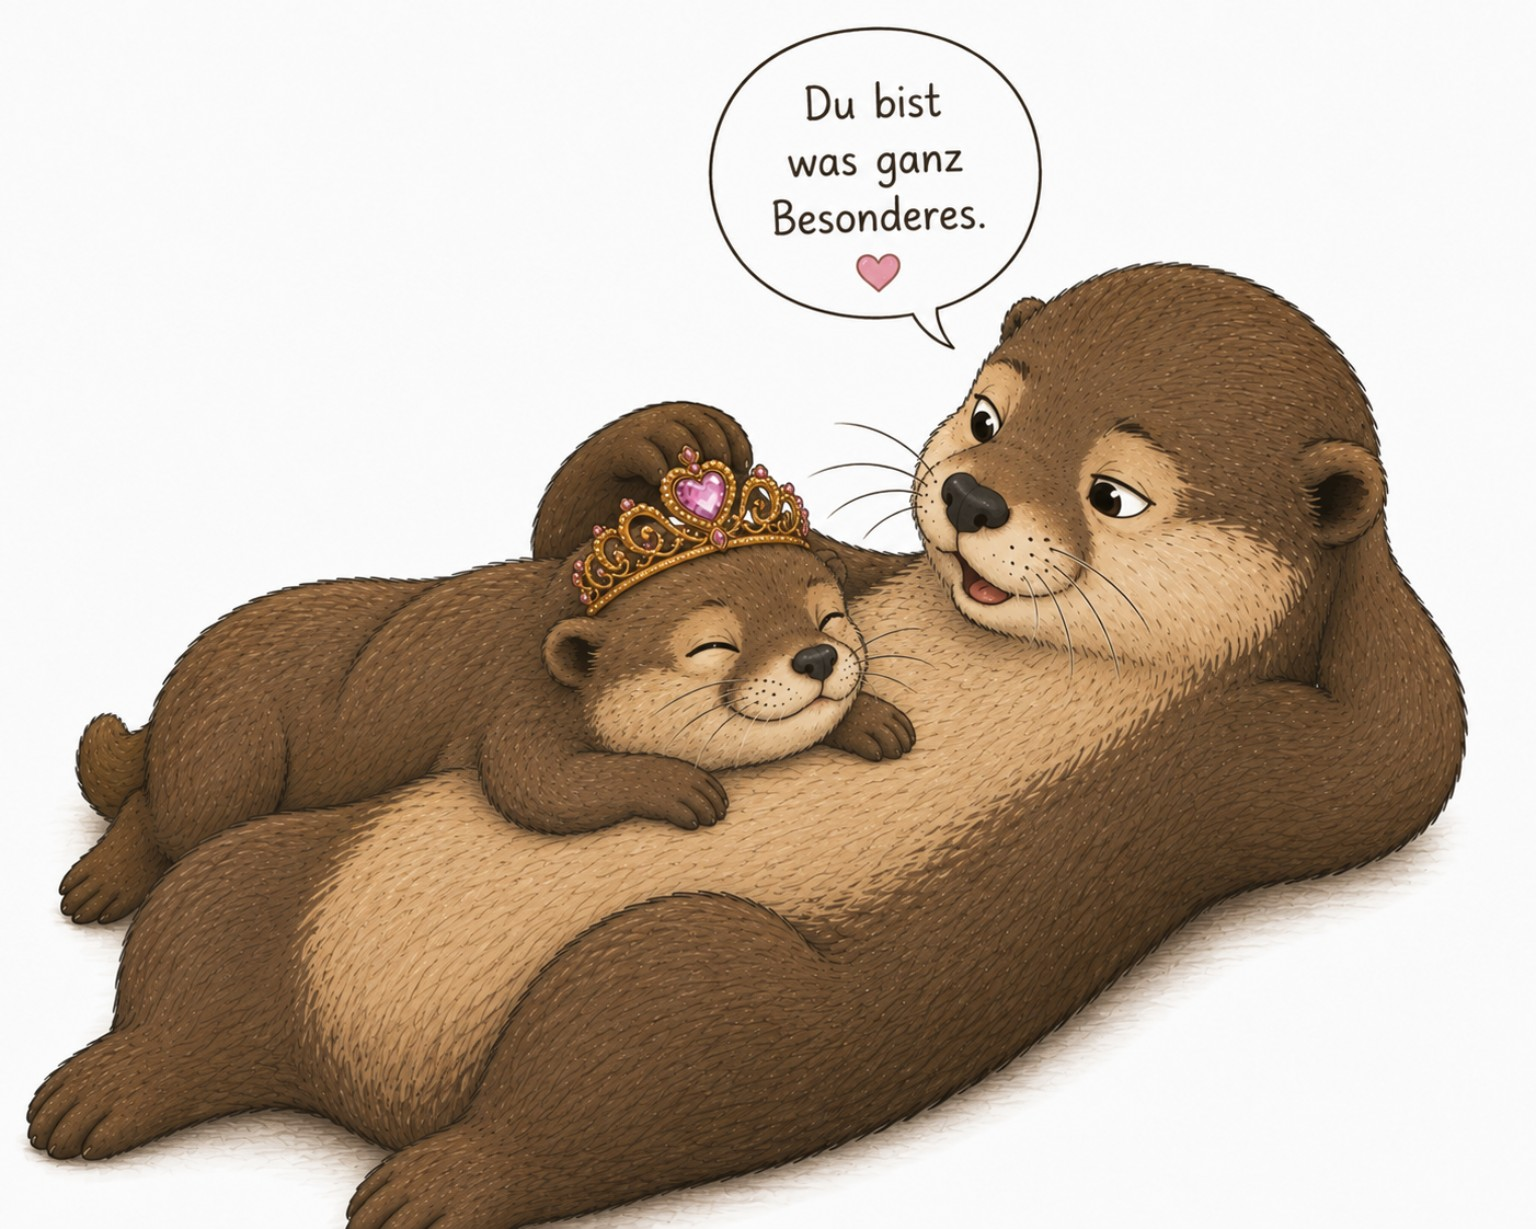
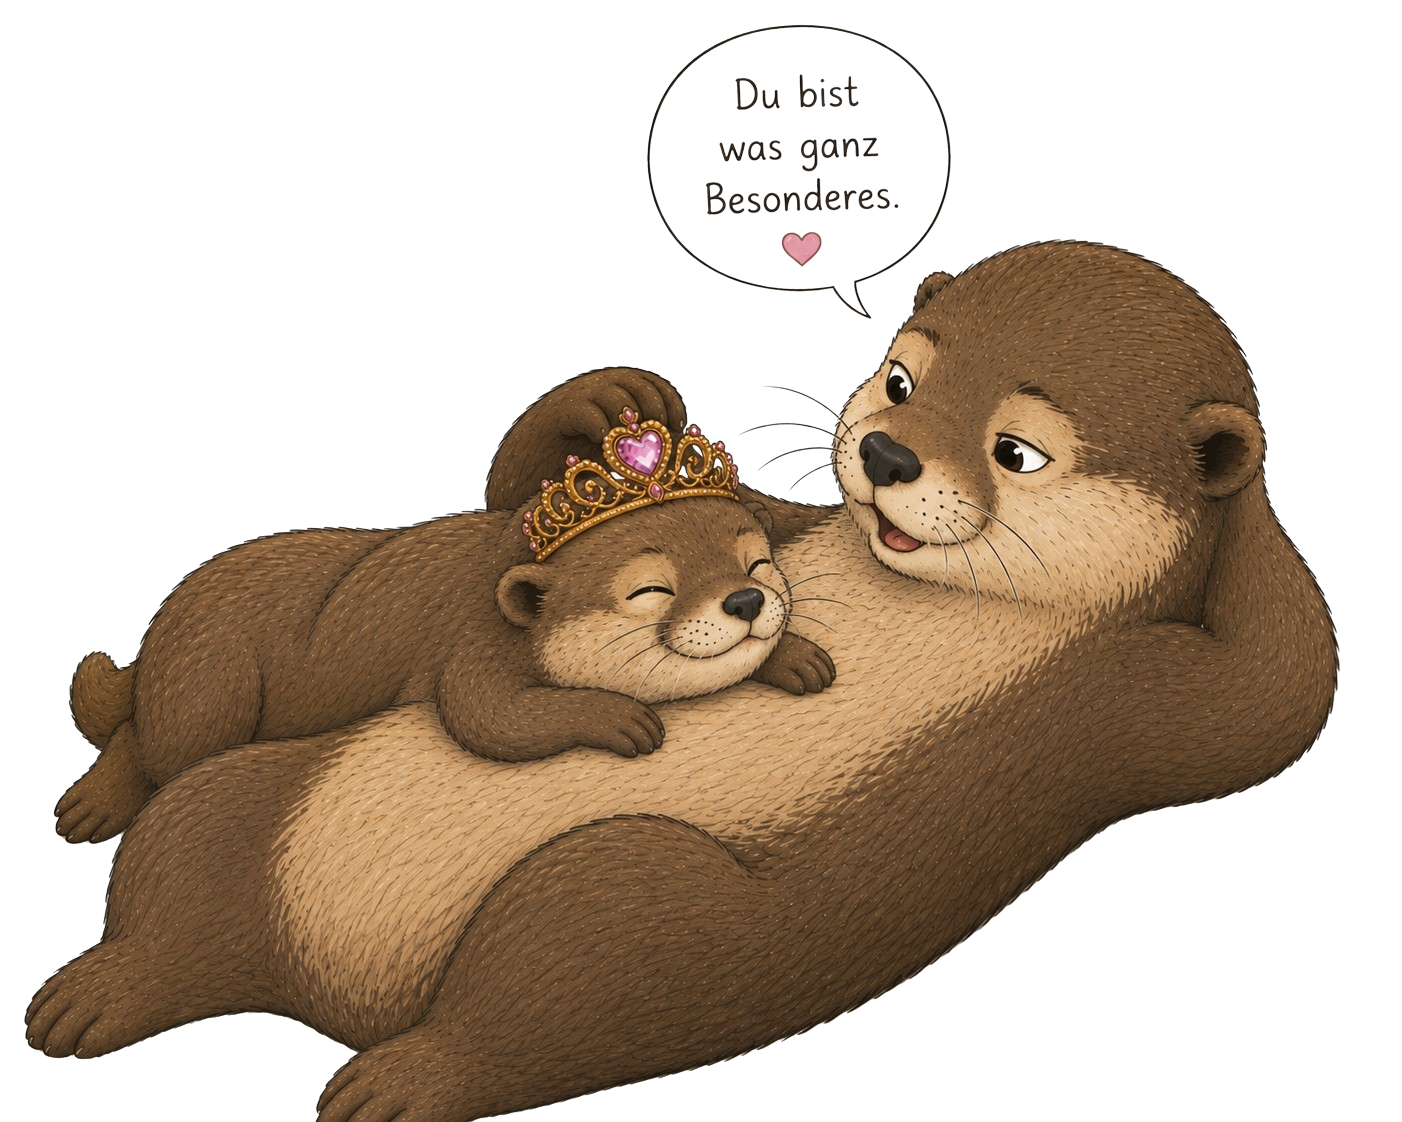
Add files via upload

diff --git a/index.html b/index.html
@@ -11,7 +11,7 @@ body{margin:0;background:linear-gradient(160deg,#fff,#fff7f1);font-family:system
 .screen{display:none;min-height:100svh;padding:28px 22px 34px;align-items:center;justify-content:center;text-align:center}
 .screen.active{display:flex;animation:fade .55s ease}
 .card{width:min(100%,520px)}
-img{display:block;max-width:100%;max-height:48svh;margin:0 auto 22px;border-radius:24px}
+img{display:block;max-width:100%;max-height:48svh;margin:0 auto 22px}
 h1{font-size:clamp(27px,7vw,42px);line-height:1.08;margin:0 0 16px}
 p{font-size:clamp(18px,4.8vw,23px);line-height:1.45;margin:10px 0}
 .small{font-size:14px;opacity:.65}
@@ -20,11 +20,12 @@ button{border:0;border-radius:999px;background:var(--ink);color:white;padding:14
 button:active{transform:scale(.97)}
 .ghost{background:#fff;color:var(--ink);border:1px solid #e5d8ce}
 .special{font-family:Georgia,serif;font-style:italic;color:var(--rose);font-size:1.15em}
+.spanish{font-family:Georgia,serif;font-style:italic;color:var(--rose);font-size:clamp(32px,8.8vw,52px);line-height:1.12;margin:24px 0}
 #teaseBtn{position:relative;transition:transform .18s ease}
 .loader{font-size:42px;letter-spacing:8px;animation:pulse 1s infinite}
 @keyframes fade{from{opacity:0;transform:translateY(8px)}to{opacity:1;transform:none}}
 @keyframes pulse{50%{opacity:.25}}
-</style>
+.poem-intro{font-family:Georgia,serif;font-size:clamp(19px,5vw,27px);line-height:1.55}.poem{font-family:Georgia,serif;font-size:clamp(20px,5.2vw,28px);line-height:1.42;text-align:left;display:inline-block}.poem p{margin:0 0 1.15em}.poem strong{font-weight:600;color:var(--rose)}</style>
 </head>
 <body>
 
@@ -49,7 +50,8 @@ button:active{transform:scale(.97)}
  <div class="card">
   <p>Du erinnerst dich vielleicht an den letzten.</p>
   <p>Damals wollte ein äußerst mysteriöser Barkeeper dir seine Nummer nicht einfach wie ein normaler Mensch geben.</p>
-  <p>Stattdessen bekamst du den <b>exklusiven WhatsApp-QR-Code.</b></p>
+  <p>Stattdessen bekamst du den</p>
+  <h1>exklusiven WhatsApp-QR-Code.</h1>
   <button onclick="next()">Natürlich</button>
  </div>
 </section>
@@ -58,16 +60,16 @@ button:active{transform:scale(.97)}
  <div class="card">
   <img src="besonders.png" alt="Zwei kuschelnde Otter">
   <p class="special">Weil du etwas Besonderes bist.</p>
-  <p>Etwas ganz Besonderes.</p>
+  <p><b>Etwas Besonderes.</b></p>
+  <p style="font-size:clamp(30px,9vw,48px);font-weight:800">Sooo besonders.</p>
   <p><b>Nicht so wie die anderen Frauen.</b></p>
-  <p class="small">Zumindest wurde dir das so erzählt.</p>
   <button id="teaseBtn" onclick="tease()">Weiter</button>
  </div>
 </section>
 
 <section class="screen">
  <div class="card">
-  <img src="sideeye.png" alt="Side-Eye-Otter">
+  <img src="bist-du-dumm.png" alt="Zwei Otter schauen sich skeptisch an">
   <h1>Du bist aber auch leicht zu beschäftigen.</h1>
   <p class="small">Okay, jetzt darfst du wirklich weiter.</p>
   <button onclick="next()">Na endlich</button>
@@ -76,7 +78,7 @@ button:active{transform:scale(.97)}
 
 <section class="screen">
  <div class="card">
-  <img src="kuscheln.png" alt="Zwei Otter kuscheln">
+  <img src="kuscheln-neu.png" alt="Zwei Otter kuscheln">
   <p>Okay …</p>
   <h1>Vielleicht bist du tatsächlich etwas ganz Besonderes.</h1>
   <button onclick="next()">Weiter</button>
@@ -85,10 +87,10 @@ button:active{transform:scale(.97)}
 
 <section class="screen">
  <div class="card">
-  <img src="kuscheln.png" alt="Zwei Otter kuscheln">
+  <img src="kuscheln-alt.png" alt="Zwei Otter kuscheln">
   <h1>Aber das meine ich diesmal ernst.</h1>
   <p>Ich bin ziemlich froh, dass du damals diesen bescheuerten QR-Code gescannt hast.</p>
-  <p class="special">Te quiero mucho, mucho, mucho. <span class="heart">♥</span></p>
+  <p class="spanish">Te quiero mucho,<br>mucho, mucho. ♥</p>
   <button onclick="next()">Weiter</button>
  </div>
 </section>
@@ -117,15 +119,38 @@ button:active{transform:scale(.97)}
  </div>
 </section>
 
-<section class="screen">
- <div class="card">
-  <img src="kuscheln.png" alt="Zwei kuschelnde Otter">
-  <h1>Feliz cumpleaños, princesa. 👑🦦</h1>
-  <p>Das richtige Geschenk kommt noch.</p>
-  <p class="small">Hier kommt später deine persönliche Abschlussnachricht hin.</p>
-  <p class="heart">♥</p>
- </div>
-</section>
+<section class="screen"><div class="card">
+<img src="kuscheln-neu.png" alt="Zwei kuschelnde Otter">
+<h1>Feliz cumpleaños, princesa. 👑🦦</h1>
+<p>Das richtige Geschenk kommt noch.</p>
+<button onclick="next()">Noch eine Sache …</button>
+</div></section>
+
+<section class="screen"><div class="card">
+<p class="poem-intro">Ein kleines Gedicht, das zeig ich dir,<br>
+von Gefühlen und solchen Dingen,<br>
+die auf Deutsch nur schwer zu Papier zu bringen.<br>
+Drum hauch ich diese Worte in die Nacht<br>
+und hoffe, dass in dir etwas erwacht.</p>
+<button onclick="next()">Weiter</button>
+</div></section>
+
+<section class="screen"><div class="card">
+<div class="poem">
+<p><strong>Es ist Nacht,</strong><br>
+und mein Herz kommt zu dir,<br>
+hält’s nicht aus,<br>
+hält’s nicht aus mehr bei mir.</p>
+<p>Legt sich dir auf die Brust,<br>
+wie ein Stein,<br>
+sinkt hinein,<br>
+zu dem deinen hinein.</p>
+<p>Dort erst,<br>
+dort erst kommt es zur Ruh,<br>
+liegt am Grund<br>
+seines ewigen Du.</p>
+</div>
+</div></section>
 
 <script>
 const screens=[...document.querySelectorAll('.screen')];
